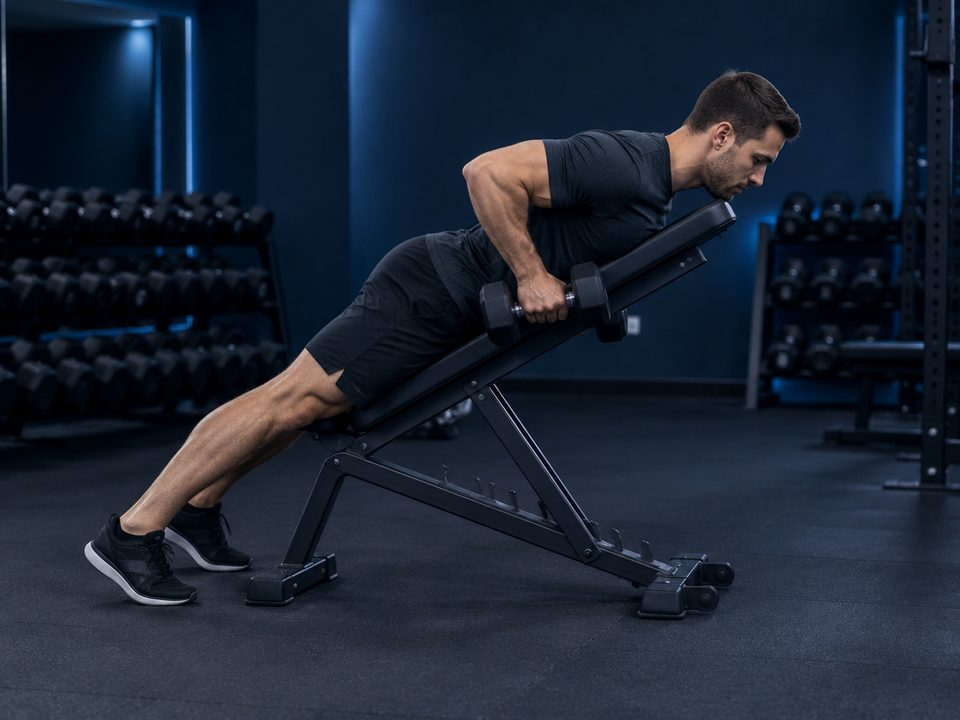
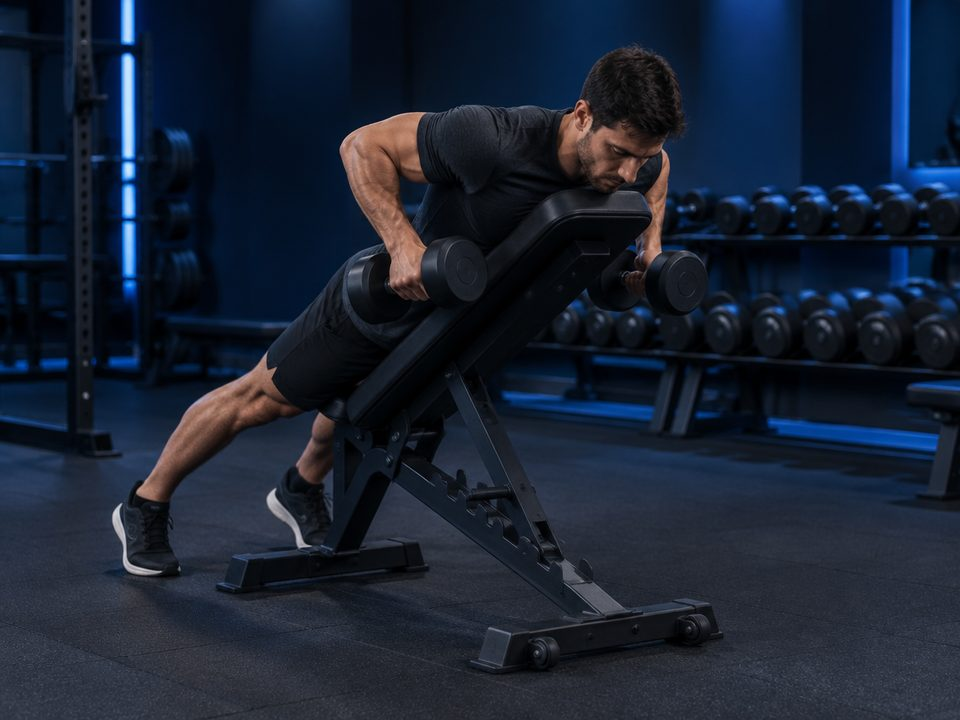
Foto Rudern auf der Schrägbank eng: Ruderbewegung erkennbar
Brust auf dem Polster, beide Kurzhanteln sichtbar neben den Rippen,
Ellbogen hinter dem Oberkörper.

Claude-Session: https://claude.ai/code/session_01MPv65TyRWfLE6TBM7iE6xk

diff --git a/apps/pwa/sw.js b/apps/pwa/sw.js
@@ -6,7 +6,7 @@
  * ist der einzige Weg, den Nutzer zu erreichen, waehrend die App geschlossen
  * ist. Siehe workers/push.
  */
-const CACHE = "daevo-v115";
+const CACHE = "daevo-v116";
 const ASSETS = [
   "./",
   "./index.html",
